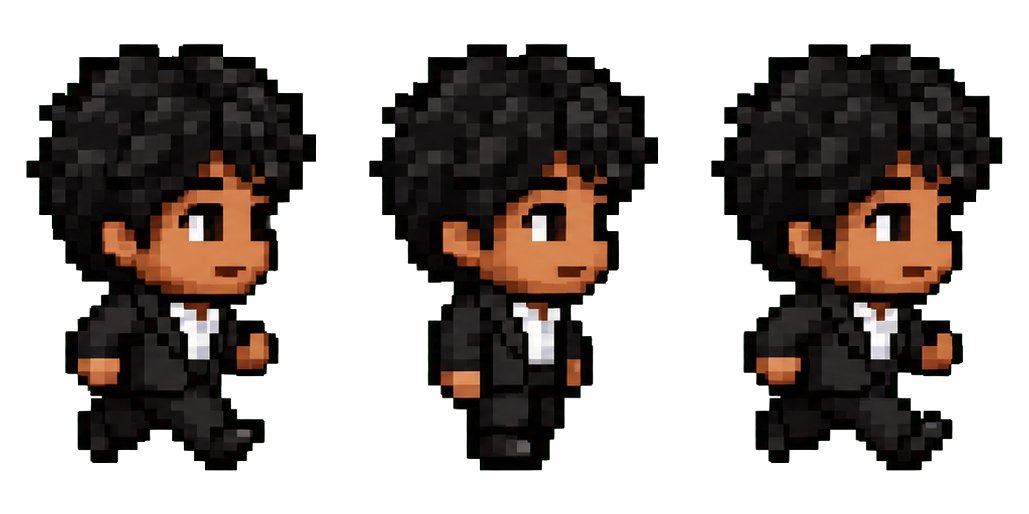
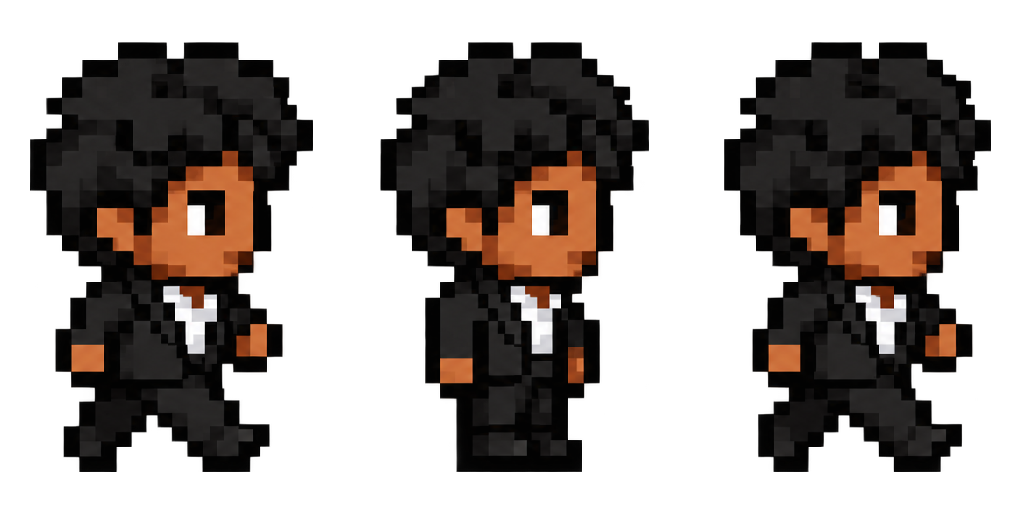
Rework trainer and ForgetMeNot animations

diff --git a/src/assets/sprites/revisedPalette.test.ts b/src/assets/sprites/revisedPalette.test.ts
@@ -56,6 +56,13 @@ describe('classic roster sprite style', () => {
     expect(svg).toContain('<rect x="10" y="10" width="12" height="12"/>');
   });
 
+  it('ForgetMeNot changes from a neutral mouth to a smile', () => {
+    expect(forgetMeNotA).toContain('<rect x="14" y="18" width="4" height="2"/>');
+    expect(forgetMeNotB).toContain('<rect x="12" y="18" width="2" height="2"/>');
+    expect(forgetMeNotB).toContain('<rect x="14" y="20" width="4" height="2"/>');
+    expect(forgetMeNotB).toContain('<rect x="18" y="18" width="2" height="2"/>');
+  });
+
   it.each(frames)('$name uses only the shared five-color palette', ({ svg }) => {
     const fills = Array.from(svg.matchAll(/\bfill="(#[0-9a-f]{6})"/gi), ([, fill]) =>
       fill.toLowerCase(),
